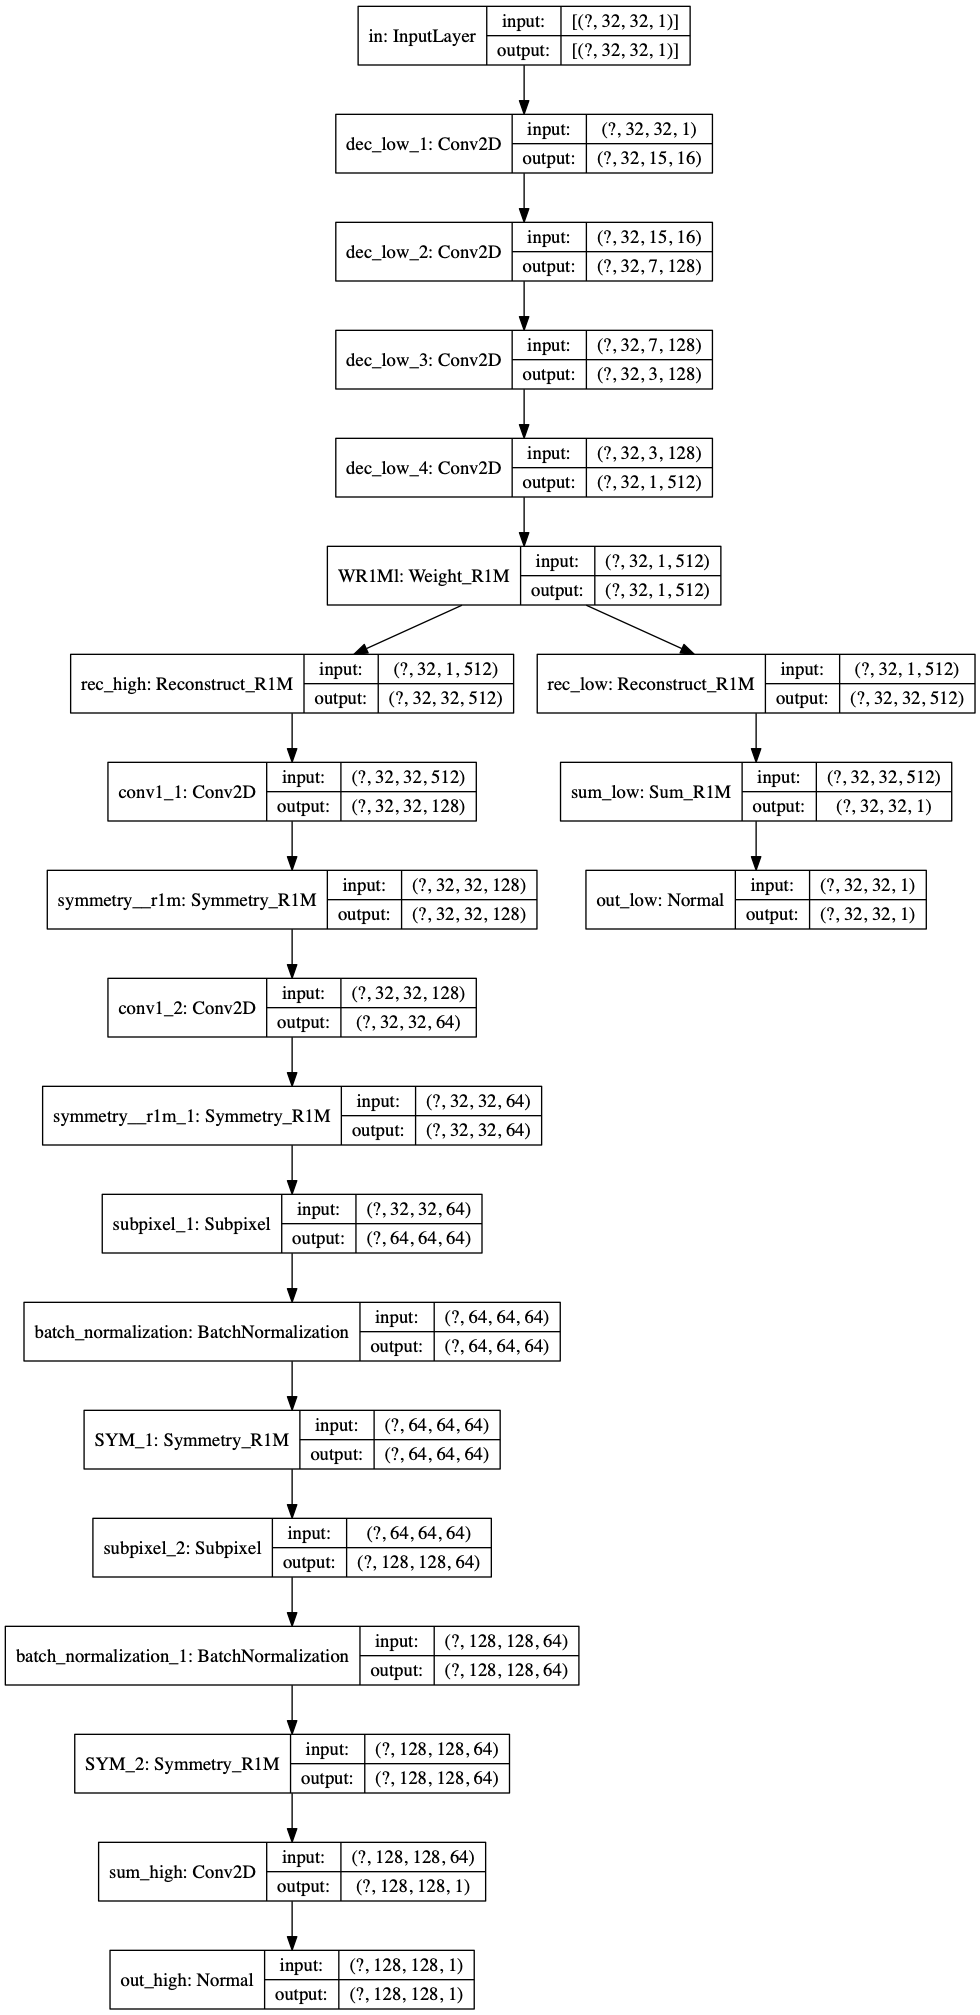
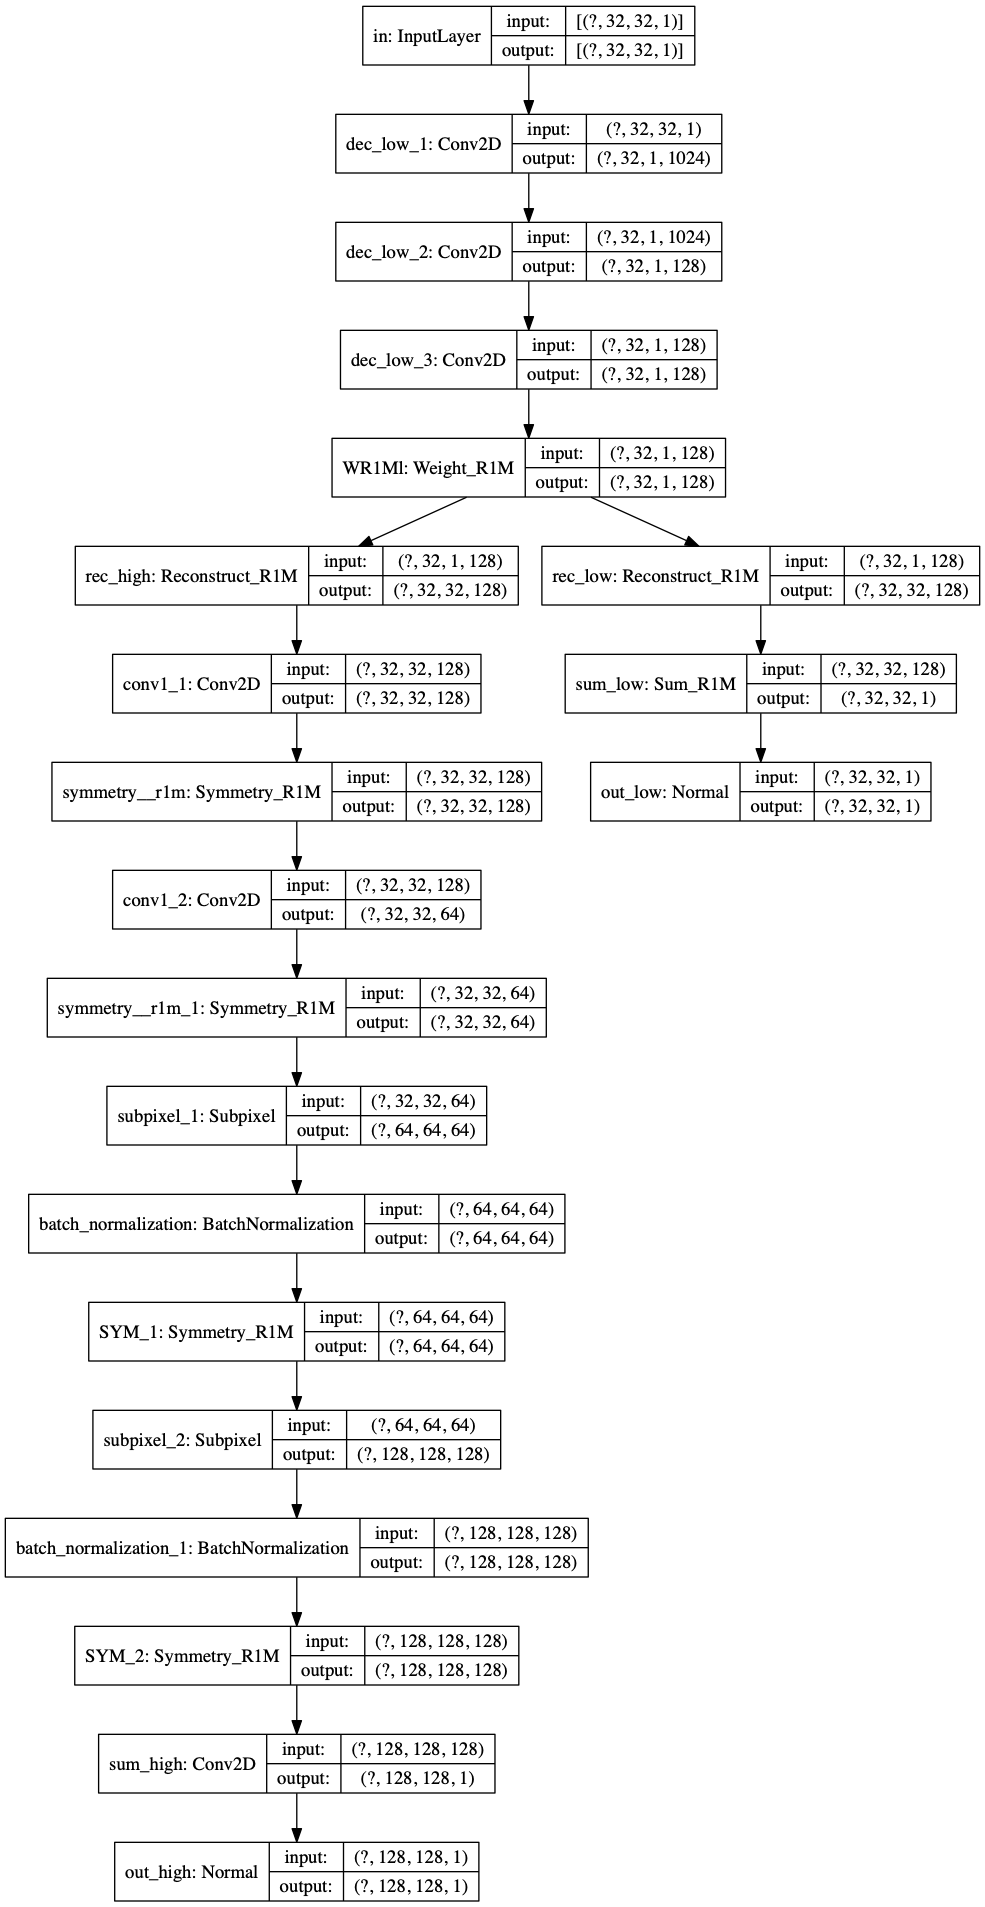
new model

Changed region(s): [[0.0, 0.0, 1.0, 1.0]]

diff --git a/model.py b/model.py
@@ -152,29 +152,24 @@ class Normal(tf.keras.layers.Layer):
 def make_generator_model(len_low_size=16, scale=4):
     In = tf.keras.layers.Input(
         shape=(len_low_size, len_low_size, 1), name='in', dtype=tf.float32)
-    Decl = tf.keras.layers.Conv2D(16, [1, 3], strides=(1,2), padding='valid', data_format="channels_last", 
+    Decl = tf.keras.layers.Conv2D(1024, [1, len_low_size], strides=(1,1), padding='valid', data_format="channels_last", 
                                     activation='relu', use_bias=False,
                                     kernel_constraint=tf.keras.constraints.NonNeg(), 
                                     kernel_initializer=tf.keras.initializers.RandomNormal(mean=0.01, stddev=0.1), 
                                     name='dec_low_1')(In)
-    Decl = tf.keras.layers.Conv2D(128, [1, 3], strides=(1,2), padding='valid', data_format="channels_last", 
+    Decl = tf.keras.layers.Conv2D(128, [1, 3], strides=(1,1), padding='same', data_format="channels_last", 
                                     activation='relu', use_bias=False,
                                     kernel_constraint=tf.keras.constraints.NonNeg(), 
                                     kernel_initializer=tf.keras.initializers.RandomNormal(mean=0.01, stddev=0.1), 
                                     name='dec_low_2')(Decl)
-    Decl = tf.keras.layers.Conv2D(128, [1, 3], strides=(1,2), padding='valid', data_format="channels_last", 
+    Decl = tf.keras.layers.Conv2D(128, [1, 3], strides=(1,1), padding='same', data_format="channels_last", 
                                     activation='relu', use_bias=False,
                                     kernel_constraint=tf.keras.constraints.NonNeg(), 
                                     kernel_initializer=tf.keras.initializers.RandomNormal(mean=0.01, stddev=0.1), 
                                     name='dec_low_3')(Decl)
-    Decl = tf.keras.layers.Conv2D(512, [1, 3], strides=(1,2), padding='valid', data_format="channels_last", 
-                                    activation='relu', use_bias=False,
-                                    kernel_constraint=tf.keras.constraints.NonNeg(), 
-                                    kernel_initializer=tf.keras.initializers.RandomNormal(mean=0.01, stddev=0.1), 
-                                    name='dec_low_4')(Decl)
 
     WeiR1Ml = Weight_R1M(name='WR1Ml')(Decl)
-    Recl = Reconstruct_R1M(512, name='rec_low')(WeiR1Ml)
+    Recl = Reconstruct_R1M(128, name='rec_low')(WeiR1Ml)
     Suml = Sum_R1M(name='sum_low')(Recl)
     low_out = Normal(len_low_size, name='out_low')(Suml)
 
@@ -182,7 +177,7 @@ def make_generator_model(len_low_size=16, scale=4):
     m_F = tf.constant(1/16.0, shape=(1, 1, 1, 1))
     up_o = tf.keras.layers.Multiply(name='scale_value_in')([up_o, m_F])'''
 
-    Rech = Reconstruct_R1M(512, name='rec_high')(WeiR1Ml)
+    Rech = Reconstruct_R1M(128, name='rec_high')(WeiR1Ml)
 
     conv1 = tf.keras.layers.Conv2D(128, [3, 3], strides=1, padding='same', data_format="channels_last", 
                                     activation='relu', use_bias=False,
@@ -199,7 +194,7 @@ def make_generator_model(len_low_size=16, scale=4):
     batchnorm = tf.keras.layers.BatchNormalization()(trans_1)
     sym = Symmetry_R1M(name='SYM_1')(batchnorm)
 
-    trans_2 = Subpixel(filters= int(64), kernel_size=(3,3), r=2, 
+    trans_2 = Subpixel(filters= int(128), kernel_size=(5,5), r=2, 
                         activation='relu', use_bias=False, padding='same', 
                         kernel_initializer=tf.keras.initializers.RandomNormal(mean=0.01, stddev=0.1), 
                         name='subpixel_2')(sym)
@@ -297,7 +292,6 @@ def train_step_generator(Gen, Dis, imgl, imgr, loss_filter, loss_weights, opts, 
         gen_low_v += Gen.get_layer('dec_low_1').trainable_variables
         gen_low_v += Gen.get_layer('dec_low_2').trainable_variables
         gen_low_v += Gen.get_layer('dec_low_3').trainable_variables
-        gen_low_v += Gen.get_layer('dec_low_4').trainable_variables
         gen_low_v += Gen.get_layer('WR1Ml').trainable_variables
         gen_low_v += Gen.get_layer('rec_low').trainable_variables
         gen_low_v += Gen.get_layer('out_low').trainable_variables

diff --git a/train.py b/train.py
@@ -23,7 +23,7 @@ mat = c.matrix(balance=True).fetch('chr2')
 idxy = ~np.all(np.isnan(mat), axis=0)
 M = mat[idxy, :]
 Mh = M[:, idxy]
-Mh = Mh[0:1024, 0:1024]
+Mh = Mh[0:2048, 0:2048]
 print('MH: ', Mh.shape)
 scale = 4
 len_size = 128 
